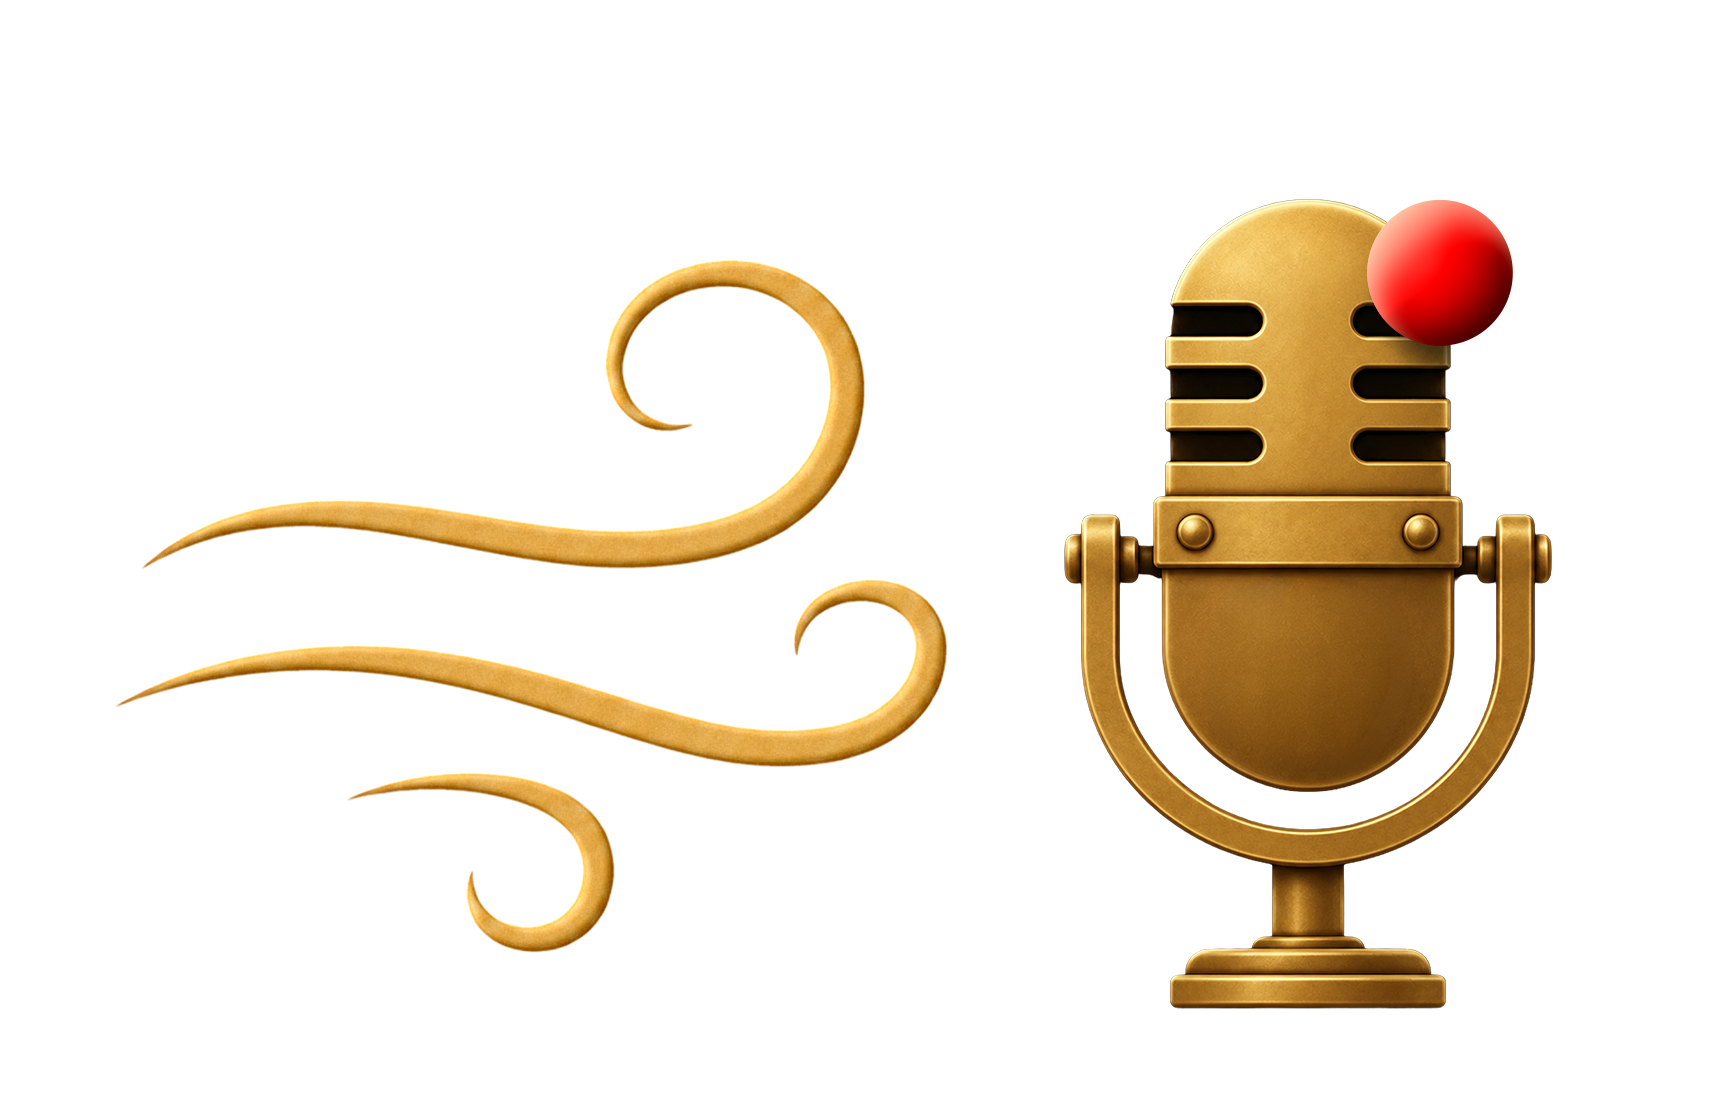
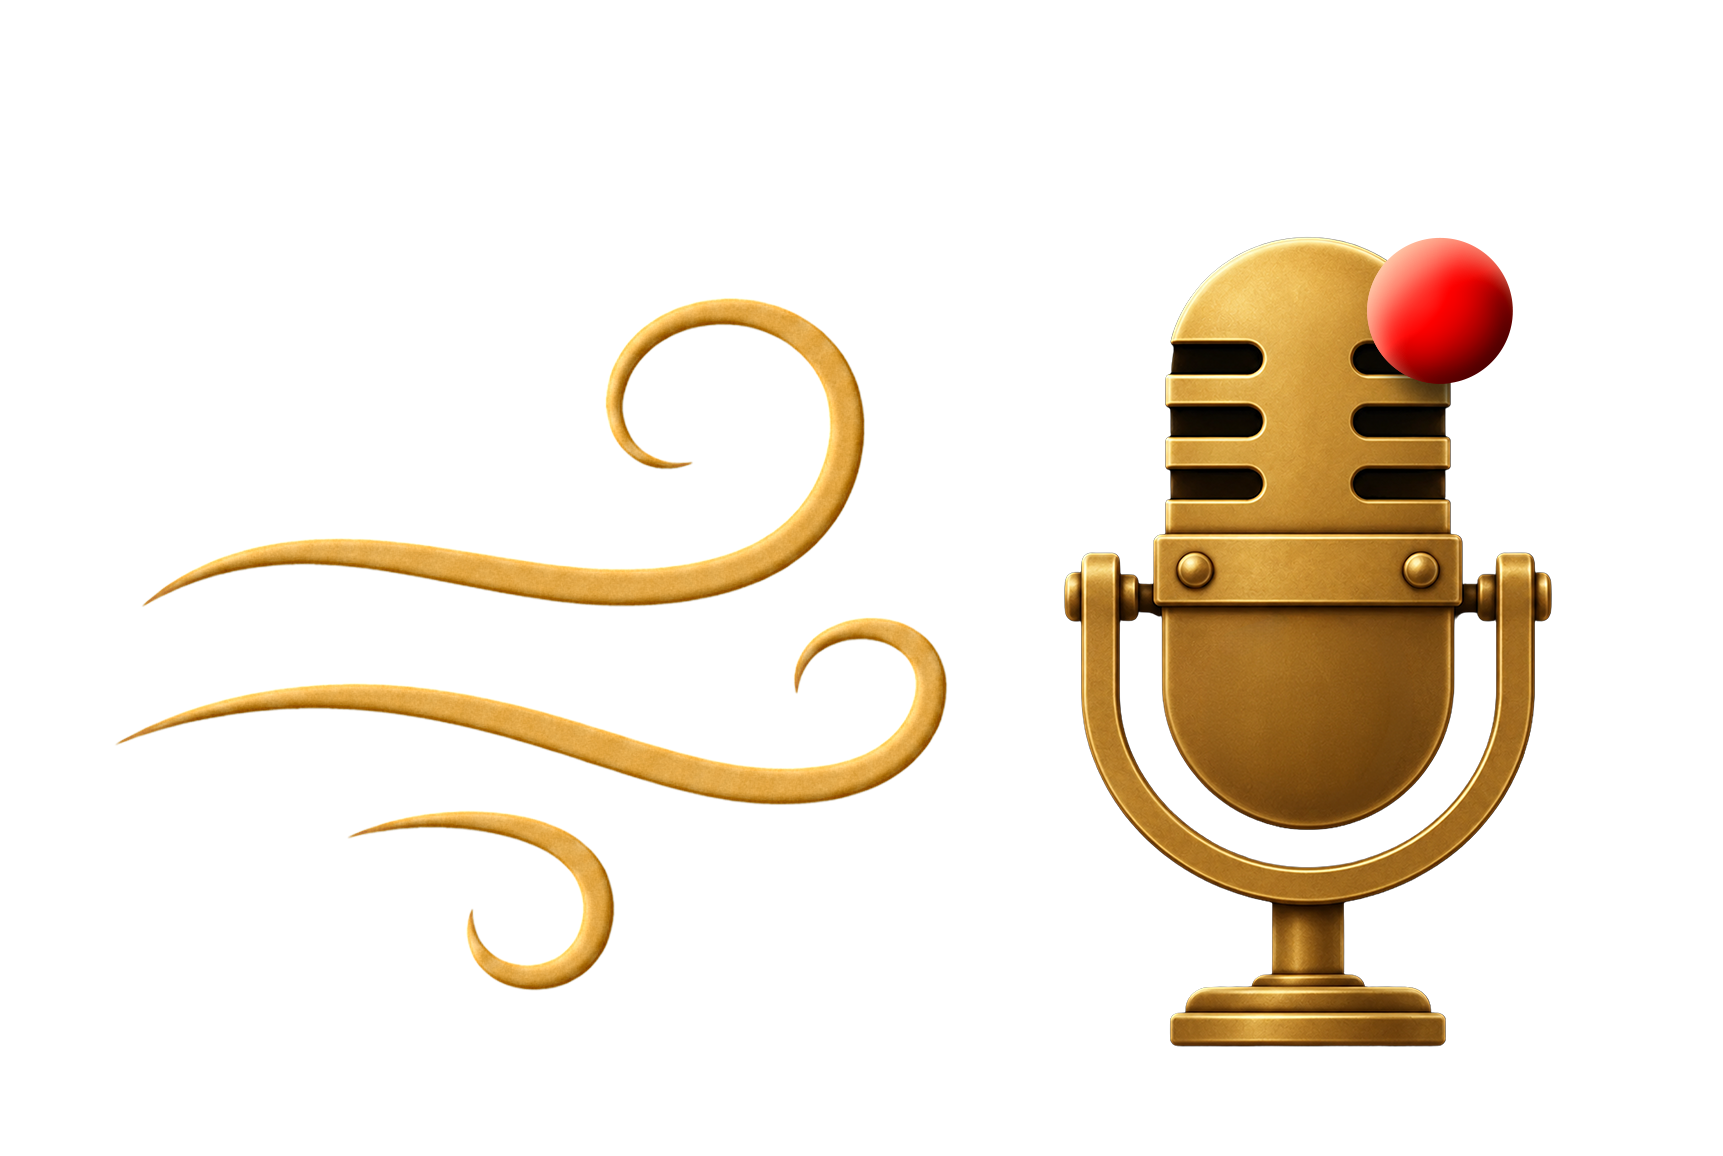
[DOC] Update README

diff --git a/README.md b/README.md
@@ -11,11 +11,11 @@
 
 ---
 
-<img src="assets/breezy_local_streaming_dictation_icon_hd.png" align="left" width="36%" alt="Gold microphone with streaming voice waves">
+<img src="assets/breezy_local_streaming_dictation_icon_hd.png" align="left" width="50%" alt="Gold microphone with streaming voice waves">
 
 ## Why I made it
 
-The dictation tools I found either came with another subscription or made me record first and wait for the result. Built-in Windows dictation also missed too many words, especially names and technical terms. In side-by-side tests using the same spoken phrase, the WhisperLiveKit dictation model made far fewer mistakes. I wanted that accuracy in something local that put words on screen while I spoke, let me keep typing, understood punctuation, and learned my vocabulary through corrections I control.
+The dictation tools I found either came with another subscription or made me record first and wait for the result. Built-in Windows dictation also missed too many words, especially names and technical terms. In side-by-side tests using the same spoken phrase, this WhisperLiveKit dictation model made far fewer mistakes. I wanted that accuracy in something local that put words on screen while I spoke, let me keep typing, understood punctuation, and learned my vocabulary through easily accessible settings.
 
 <br clear="left">
 
